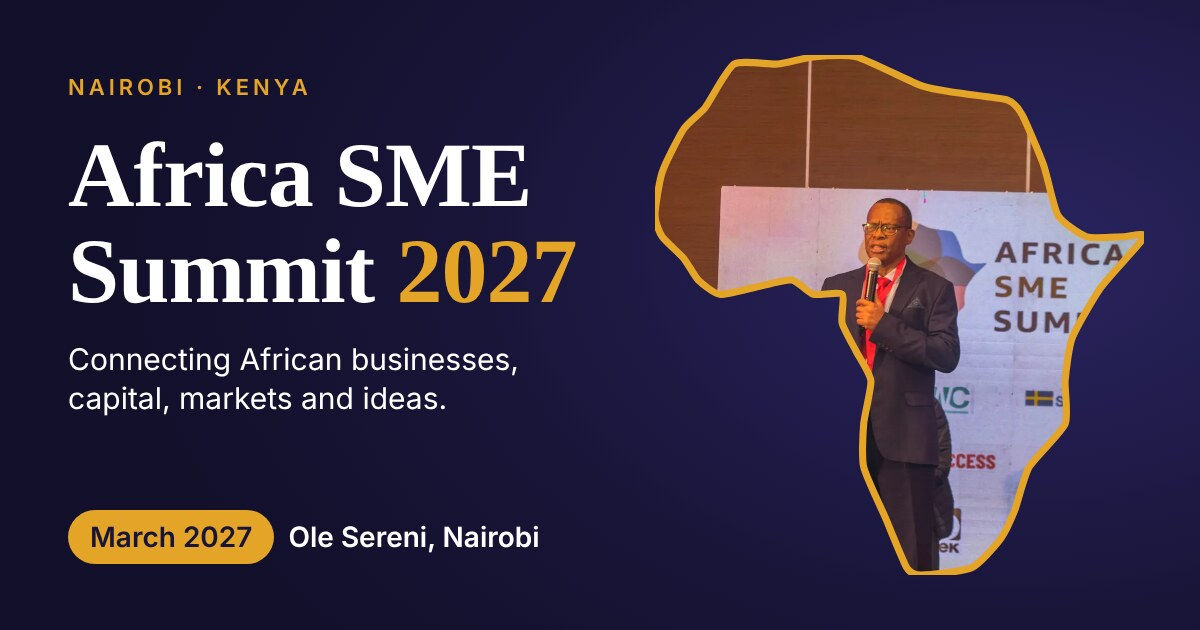
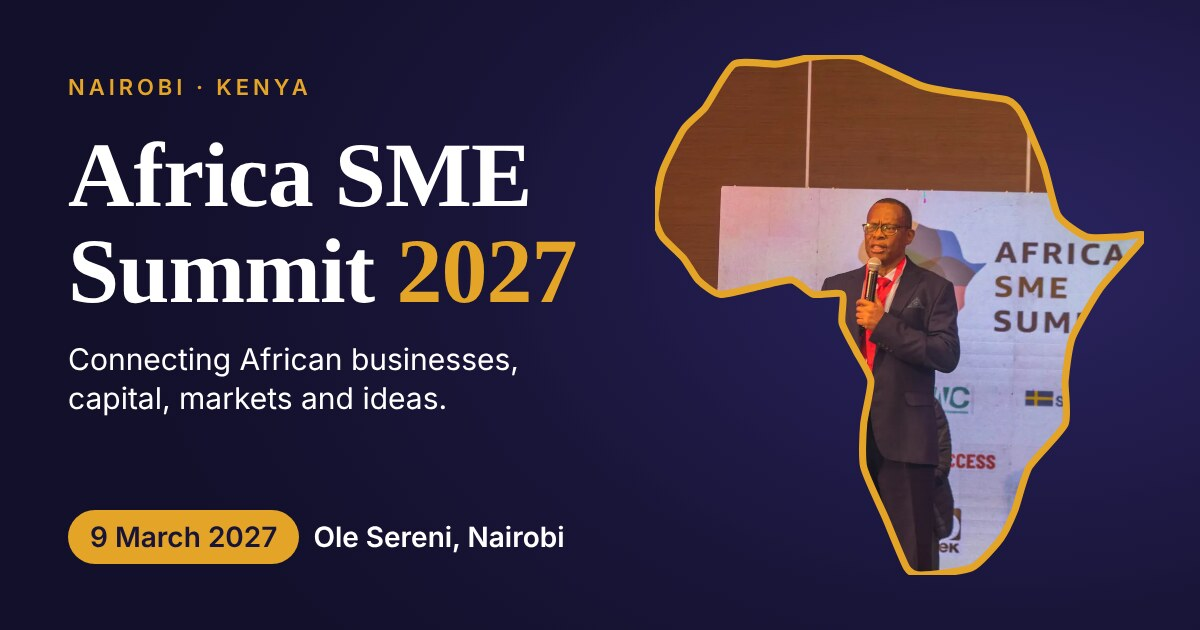
Fix mobile menu, centre desktop nav, set summit date to 9 March 2027
The glass panel's backdrop blur was trapping the full-screen menu inside the 50px button, so it never showed on phones; the blur now sits on a layer behind the panel. The desktop nav is centred. NEXT_SUMMIT is 9 March 2027, confirmed, with the share card rebuilt to match.

Claude-Session: https://claude.ai/code/session_01AVB9HQVBgcuMpg2iM3vFQ7

Changed region(s): [[0.0617, 0.7841, 0.4625, 0.9048]]

diff --git a/app/globals.css b/app/globals.css
@@ -1008,6 +1008,10 @@ html.splash-on:not(.splash-lifting) .hero-word { animation-play-state: paused; }
    glass, a fine warm-gold edge, a soft specular sheen. Relatively transparent
    at rest; on hover / keyboard focus it firms up and blurs more, over ~320ms.
    Touch screens, which cannot hover, rest at a firmer value. */
+/* NB: the blur and the fill live on pseudo-elements, not on .glass-panel
+   itself. An element with backdrop-filter becomes the containing block for
+   position:fixed descendants, which squashed the full-screen menu (inside
+   this panel) into the 50px button. */
 .glass-panel {
   position: relative;
   display: flex;
@@ -1015,18 +1019,24 @@ html.splash-on:not(.splash-lifting) .hero-word { animation-play-state: paused; }
   border-radius: 14px;
   padding: 3px;
   isolation: isolate;
+  box-shadow: 0 12px 30px -14px rgba(3, 5, 24, 0.7);
+  transition: box-shadow 320ms ease;
+}
+/* the glass: translucent navy fill, blur of the video behind */
+.glass-panel::after {
+  content: "";
+  position: absolute;
+  inset: 0;
+  z-index: -2;
+  border-radius: inherit;
+  pointer-events: none;
   background-color: rgba(12, 15, 46, 0.34);
   background-image: linear-gradient(180deg, rgba(255, 255, 255, 0.13) 0%, rgba(255, 255, 255, 0.03) 42%, rgba(255, 255, 255, 0) 100%);
   -webkit-backdrop-filter: blur(9px) saturate(1.2);
   backdrop-filter: blur(9px) saturate(1.2);
-  box-shadow:
-    inset 0 0 0 1px rgba(232, 196, 120, 0.3),
-    inset 0 1px 0 rgba(255, 246, 220, 0.6),
-    inset 0 -1px 0 rgba(0, 0, 0, 0.28),
-    0 12px 30px -14px rgba(3, 5, 24, 0.7);
-  transition: background-color 320ms ease, backdrop-filter 320ms ease, -webkit-backdrop-filter 320ms ease, box-shadow 320ms ease;
+  transition: background-color 320ms ease, backdrop-filter 320ms ease, -webkit-backdrop-filter 320ms ease;
 }
-/* the reflection: a soft diagonal band of light across the glass */
+/* the gold edge, the top highlight and the reflection: a diagonal band of light */
 .glass-panel::before {
   content: "";
   position: absolute;
@@ -1035,30 +1045,43 @@ html.splash-on:not(.splash-lifting) .hero-word { animation-play-state: paused; }
   border-radius: inherit;
   pointer-events: none;
   background: linear-gradient(112deg, rgba(255, 255, 255, 0) 18%, rgba(255, 255, 255, 0.12) 34%, rgba(255, 255, 255, 0) 50%);
+  box-shadow:
+    inset 0 0 0 1px rgba(232, 196, 120, 0.3),
+    inset 0 1px 0 rgba(255, 246, 220, 0.6),
+    inset 0 -1px 0 rgba(0, 0, 0, 0.28);
+  transition: box-shadow 320ms ease;
 }
 .glass-panel:hover,
 .glass-panel:focus-within,
 .glass-panel[data-solid="true"] {
+  box-shadow: 0 16px 36px -14px rgba(3, 5, 24, 0.8);
+}
+.glass-panel:hover::after,
+.glass-panel:focus-within::after,
+.glass-panel[data-solid="true"]::after {
   background-color: rgba(12, 15, 46, 0.7);
   -webkit-backdrop-filter: blur(20px) saturate(1.3);
   backdrop-filter: blur(20px) saturate(1.3);
+}
+.glass-panel:hover::before,
+.glass-panel:focus-within::before,
+.glass-panel[data-solid="true"]::before {
   box-shadow:
     inset 0 0 0 1px rgba(232, 196, 120, 0.5),
     inset 0 1px 0 rgba(255, 246, 220, 0.7),
-    inset 0 -1px 0 rgba(0, 0, 0, 0.3),
-    0 16px 36px -14px rgba(3, 5, 24, 0.8);
+    inset 0 -1px 0 rgba(0, 0, 0, 0.3);
 }
-.glass-panel[data-solid="true"] { background-color: rgba(12, 15, 46, 0.82); }
+.glass-panel[data-solid="true"]::after { background-color: rgba(12, 15, 46, 0.82); }
 @media (hover: none) {
-  .glass-panel { background-color: rgba(12, 15, 46, 0.5); }
+  .glass-panel::after { background-color: rgba(12, 15, 46, 0.5); }
 }
 @media (prefers-reduced-transparency: reduce) {
-  .glass-panel, .glass-panel:hover, .glass-panel:focus-within, .glass-panel[data-solid="true"] {
+  .glass-panel::after, .glass-panel:hover::after, .glass-panel:focus-within::after, .glass-panel[data-solid="true"]::after {
     background-color: rgb(14, 17, 52); -webkit-backdrop-filter: none; backdrop-filter: none;
   }
 }
 @media (prefers-reduced-motion: reduce) {
-  .glass-panel { transition: none; }
+  .glass-panel, .glass-panel::after, .glass-panel::before { transition: none; }
 }
 /* gold underline that draws in under a link */
 .glass-link::after {

diff --git a/lib/event.ts b/lib/event.ts
@@ -78,12 +78,12 @@ export const EVENT = {
  * purpose, are from the Summit Dispatch Issue 01 (October 2026): "March 2027
  * · Ole Sereni, Nairobi. Launch of the Nairobi County Entrepreneurship
  * Ecosystem Strengthening Strategic Plan 2026–2030 and a first look at
- * progress since 2026. Exact date to be announced." THE DAY IS NOT SET and
- * none is invented here. `starts` is therefore the first moment of March in
- * East Africa Time, so the countdowns read "until March 2027" and run out on
- * 1 March at the latest. When the real date is fixed: change `starts` to
- * that day's opening time, `label` to e.g. "12 March 2027", set
- * `dateConfirmed` to true — and see TICKETING_OPEN below.
+ * progress since 2026. Exact date to be announced." The DAY was then set by
+ * ICL on 27 October 2026: 9 March (2027 — the message said "2026", which is
+ * already past, so 2027 is assumed; confirm). No opening time has been given,
+ * so `starts` is the first moment of 9 March in East Africa Time and the
+ * countdowns run to the start of that day. When the opening time is known,
+ * change `starts` to it. See also TICKETING_OPEN below.
  *
  * The 2026 constants (EVENT.year, DATE_ISO, SUMMIT_STARTS, the AGENDA, the
  * tickets and the early bird) deliberately stay as the 2026 record: the
@@ -91,11 +91,11 @@ export const EVENT = {
  */
 export const NEXT_SUMMIT = {
   year: 2027,
-  label: "March 2027",
+  label: "9 March 2027",
   /** True once a day has been announced; until then the label is month-only
    *  and the schema.org start date is left at the month. */
-  dateConfirmed: false,
-  starts: "2027-03-01T00:00:00+03:00",
+  dateConfirmed: true,
+  starts: "2027-03-09T00:00:00+03:00",
   venue: "Ole Sereni",
   place: "Nairobi, Kenya",
   tagline: "Connecting African businesses, capital, markets and ideas.",

diff --git a/components/GlassNav.tsx b/components/GlassNav.tsx
@@ -8,7 +8,7 @@ import NavDropdown from "@/components/NavDropdown";
 /**
  * The homepage's navigation (27 October 2026, ICL's "cinematic" refinement):
  * no bar, no logo — a small floating panel of translucent navy glass at the
- * top right, over the hero video, which therefore starts at the very top of
+ * top (centred on desktop, top right on phones and tablets), over the hero video, which therefore starts at the very top of
  * the page.
  *
  * The links ARE the hamburger's pages — same labels, same routes, same
@@ -43,7 +43,7 @@ export default function GlassNav({ nav, current = "" }: { nav: readonly Entry[];
 
   return (
     <header className="pointer-events-none fixed inset-x-0 top-0 z-50">
-      <div className="flex justify-end px-4 pt-4 sm:px-6 sm:pt-5 lg:px-10 lg:pt-6">
+      <div className="flex justify-end px-4 pt-4 sm:px-6 sm:pt-5 lg:justify-center lg:px-10 lg:pt-6">
         <div className="glass-panel pointer-events-auto" data-solid={solid ? "true" : undefined}>
           <nav aria-label="Main" className="hidden items-center gap-5 pl-6 pr-2 text-[16px] font-medium lg:flex xl:gap-6 2xl:gap-8">
             {nav.map((n) => {

diff --git a/app/2026/page.tsx b/app/2026/page.tsx
@@ -237,10 +237,10 @@ export default function Recap2026() {
       <section>
         <div className="mx-auto max-w-[1600px] px-5 py-16 sm:px-8 sm:py-24">
           <Reveal as="h2" className="h-lg max-w-3xl text-4xl text-white sm:text-6xl">
-            See you in <span className="text-marigold">{NEXT_SUMMIT.label}</span>.
+            See you {NEXT_SUMMIT.dateConfirmed ? "on" : "in"} <span className="text-marigold">{NEXT_SUMMIT.label}</span>.
           </Reveal>
           <Reveal as="p" className="lede mt-6 max-w-2xl text-[18px] text-white">
-            {NEXT_SUMMIT.purpose} The exact date will be announced here first.
+            {NEXT_SUMMIT.purpose}{NEXT_SUMMIT.dateConfirmed ? "" : " The exact date will be announced here first."}
           </Reveal>
           <Reveal className="mt-9 flex flex-wrap gap-4">
             <TicketBtn tone="gold" />

diff --git a/app/page.tsx b/app/page.tsx
@@ -303,8 +303,8 @@ export default function Page() {
             <Reveal>
               <Head eyebrow="The venue">{NEXT_SUMMIT.venue}, Nairobi.</Head>
               <p className="lede mt-6 max-w-lg text-[18px] text-ink/70">
-                {NEXT_SUMMIT.label} returns to {EVENT.venue}, {EVENT.venueDetail}, where the 2026
-                summit was held. The exact date will be announced here first.
+                The summit returns on {NEXT_SUMMIT.label} to {EVENT.venue}, {EVENT.venueDetail},
+                where the 2026 summit was held.
               </p>
               <div className="mt-8"><Btn href="/2026" internal tone="outline">See the 2026 summit here</Btn></div>
             </Reveal>
